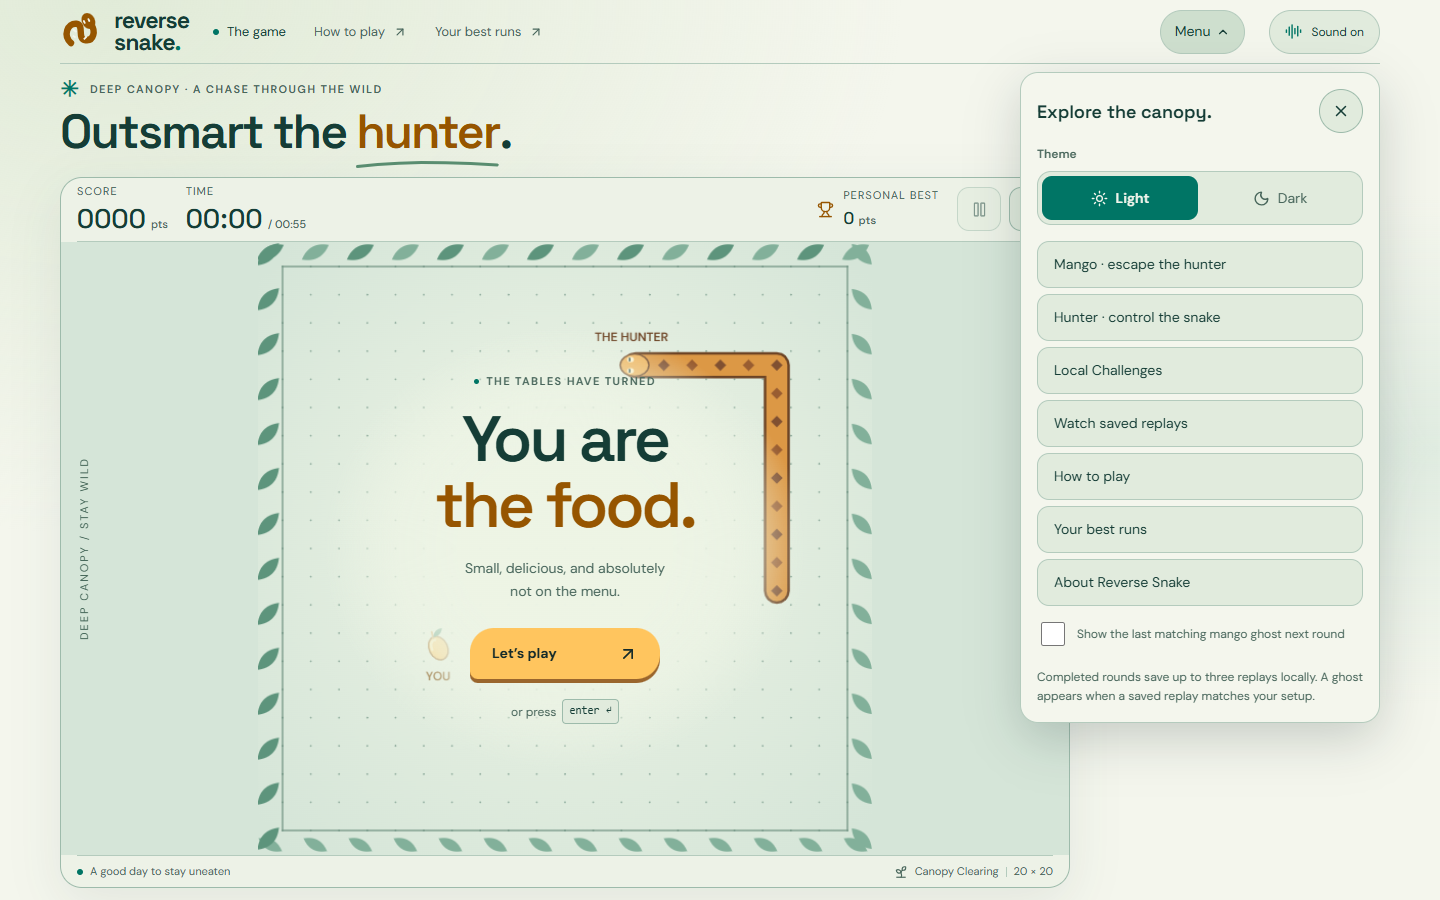
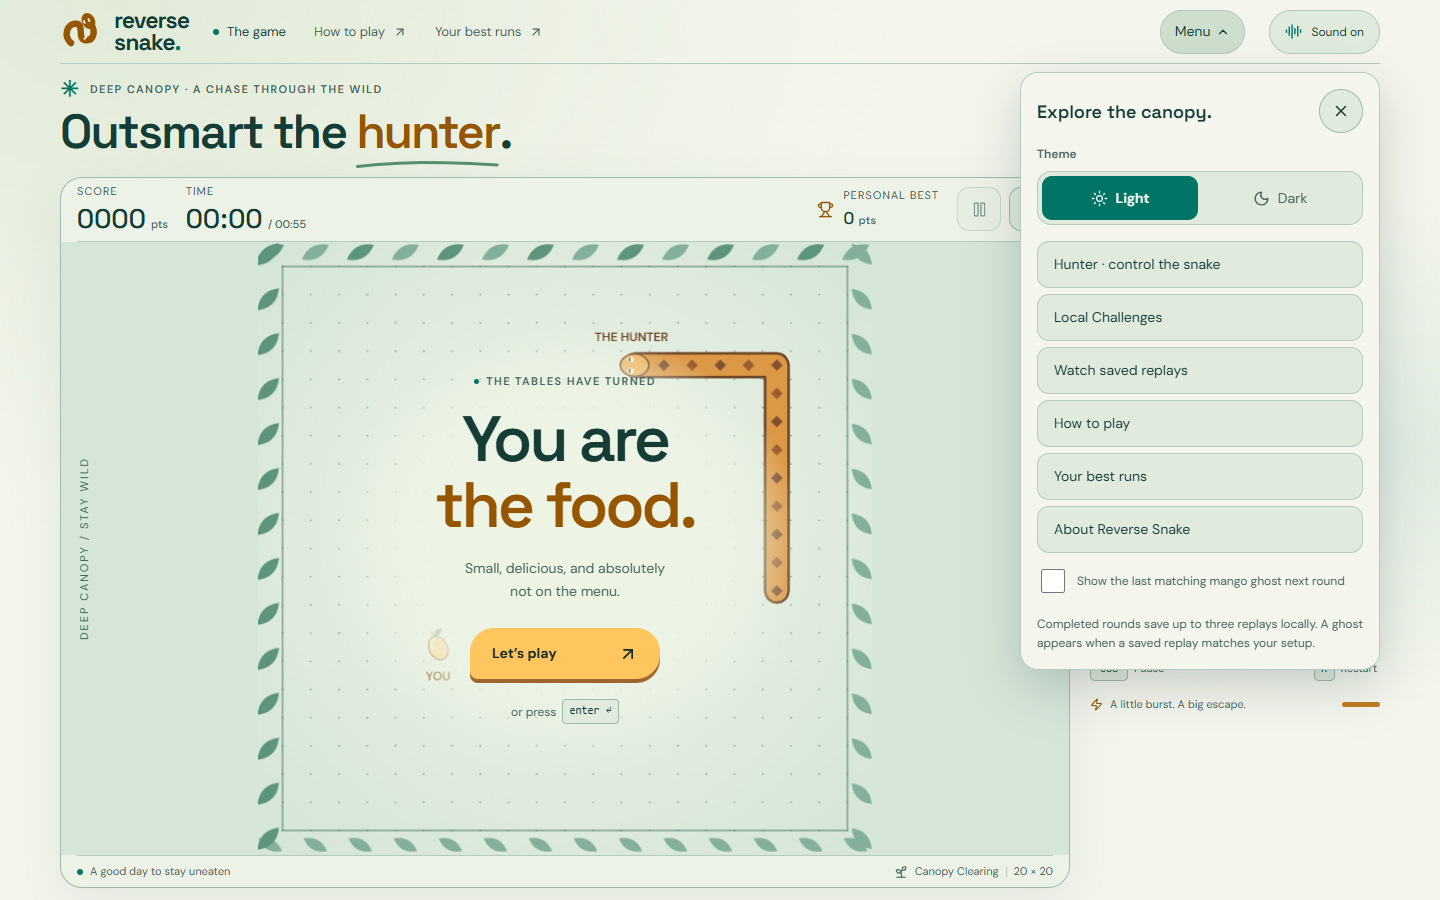
Open menu on click and show the alternate player mode

diff --git a/web/browser-tests/theme.spec.ts b/web/browser-tests/theme.spec.ts
@@ -92,13 +92,24 @@ test("a palette switch redraws a paused board without advancing or resetting it"
   await expect(page.locator(".board-stage")).toHaveAttribute("data-phase", "paused");
 });
 
-test("hover opens and highlights options; click pins, Escape and outside click close", async ({ page }) => {
+test("hover leaves gameplay running; click and keyboard open, Escape and outside click close", async ({ page }) => {
   await page.goto("/");
   const trigger = page.getByRole("button", { name: "Open game menu" });
   await trigger.hover();
+  await expect(menu(page)).toHaveCount(0);
+  await page.getByRole("button", { name: "Let’s play" }).click();
+  await trigger.hover();
+  await expect(menu(page)).toHaveCount(0);
+  await expect(page.locator(".board-stage")).toHaveAttribute("data-phase", "running");
+  await trigger.click();
   await expect(menu(page)).toBeVisible();
+  await expect(page.locator(".board-stage")).toHaveAttribute("data-phase", "paused");
+  await expect(page.getByRole("button", { name: "Close menu" })).toBeFocused();
   await page.keyboard.press("Enter");
-  await expect(page.locator(".board-stage")).toHaveAttribute("data-phase", "ready");
+  await expect(menu(page)).toHaveCount(0);
+  await trigger.press("Enter");
+  await expect(menu(page)).toBeVisible();
+  await expect(page.locator(".board-stage")).toHaveAttribute("data-phase", "paused");
   const light = menu(page).getByRole("button", { name: "Light", exact: true });
   const dark = menu(page).getByRole("button", { name: "Dark", exact: true });
   const background = await dark.evaluate(el => getComputedStyle(el).backgroundColor);
@@ -106,11 +117,7 @@ test("hover opens and highlights options; click pins, Escape and outside click c
   await expect.poll(() => dark.evaluate(el => getComputedStyle(el).backgroundColor)).not.toBe(background);
   await expect(light).toHaveAttribute("aria-pressed", "true");
   await page.mouse.move(5, 200);
-  await expect(menu(page)).toHaveCount(0);
-  await trigger.click();
-  await page.mouse.move(5, 200);
   await expect(menu(page)).toBeVisible();
-  await expect(page.getByRole("button", { name: "Close menu" })).toBeFocused();
   await page.keyboard.press("Escape");
   await expect(menu(page)).toHaveCount(0);
   await expect(trigger).toBeFocused();
@@ -122,6 +129,26 @@ test("hover opens and highlights options; click pins, Escape and outside click c
   await expect(page.locator("dialog.modal")).toBeVisible();
   await page.keyboard.press("Escape");
   await expect(trigger).toBeFocused();
+});
+
+test("the menu offers Hunter from Mango and Mango from Hunter, including during a round", async ({ page }) => {
+  await page.goto("/");
+  await openMenu(page);
+  await expect(menu(page).getByRole("link", { name: "Mango · escape the hunter" })).toHaveCount(0);
+  await expect(menu(page).getByRole("link", { name: "Hunter · control the snake" })).toBeVisible();
+  await menu(page).getByRole("link", { name: "Hunter · control the snake" }).click();
+  await expect(page).toHaveURL(/\/hunter$/);
+  await page.getByRole("button", { name: "Start round" }).click();
+  await openMenu(page);
+  await expect(page.locator(".board-stage")).toHaveAttribute("data-phase", "paused");
+  await expect(menu(page).getByRole("link", { name: "Hunter · control the snake" })).toHaveCount(0);
+  await expect(menu(page).getByRole("link", { name: "Mango · escape the hunter" })).toBeVisible();
+  await menu(page).getByRole("link", { name: "Mango · escape the hunter" }).click();
+  await page.getByRole("button", { name: "Let’s play" }).click();
+  await openMenu(page);
+  await expect(page.locator(".board-stage")).toHaveAttribute("data-phase", "paused");
+  await expect(menu(page).getByRole("link", { name: "Mango · escape the hunter" })).toHaveCount(0);
+  await expect(menu(page).getByRole("link", { name: "Hunter · control the snake" })).toBeVisible();
 });
 
 for (const unavailable of [false, true]) {

diff --git a/web/src/components/game-menu.tsx b/web/src/components/game-menu.tsx
@@ -5,38 +5,18 @@ import Link from "next/link";
 import { ChevronDown, Moon, Sun, X } from "lucide-react";
 import { setTheme, useTheme } from "@/lib/theme";
 
-export function GameMenu({ onOpen, children }: { onOpen?: () => void; children?: ReactNode }) {
+export function GameMenu({ currentMode, onOpen, children }: { currentMode?: "mango" | "hunter"; onOpen?: () => void; children?: ReactNode }) {
   const [open, setOpen] = useState(false);
-  const [focusMenu, setFocusMenu] = useState(false);
   const [notice, setNotice] = useState("");
   const theme = useTheme();
   const id = useId();
   const wrapper = useRef<HTMLDivElement>(null);
   const trigger = useRef<HTMLButtonElement>(null);
   const closeButton = useRef<HTMLButtonElement>(null);
-  const pinned = useRef(false);
-  const opened = useRef(false);
-  const leaveTimer = useRef<ReturnType<typeof setTimeout> | null>(null);
-  const cancelLeave = useCallback(() => {
-    if (leaveTimer.current) clearTimeout(leaveTimer.current);
-    leaveTimer.current = null;
-  }, []);
   const close = useCallback((restoreFocus = true) => {
-    cancelLeave();
-    opened.current = false;
-    pinned.current = false;
     setOpen(false);
-    setFocusMenu(false);
     if (restoreFocus) trigger.current?.focus({ preventScroll: true });
-  }, [cancelLeave]);
-  const show = () => {
-    cancelLeave();
-    if (!opened.current) {
-      opened.current = true;
-      setOpen(true);
-      onOpen?.();
-    }
-  };
+  }, []);
 
   useEffect(() => {
     if (!open) return;
@@ -62,28 +42,17 @@ export function GameMenu({ onOpen, children }: { onOpen?: () => void; children?:
       document.removeEventListener("focusin", focusOut);
     };
   }, [open, close]);
-  useEffect(() => cancelLeave, [cancelLeave]);
   useEffect(() => {
-    if (open && focusMenu) closeButton.current?.focus({ preventScroll: true });
-  }, [open, focusMenu]);
+    if (open) closeButton.current?.focus({ preventScroll: true });
+  }, [open]);
 
-  return <div className="menu-wrapper" ref={wrapper}
-    onPointerEnter={event => {
-      if (event.pointerType === "mouse" && window.matchMedia("(hover: hover) and (pointer: fine)").matches) show();
-    }}
-    onPointerLeave={() => {
-      cancelLeave();
-      if (!pinned.current) leaveTimer.current = setTimeout(() => {
-        if (!wrapper.current?.contains(document.activeElement)) close(false);
-      }, 180);
-    }}>
+  return <div className="menu-wrapper" ref={wrapper}>
     <button className="menu-button" ref={trigger} aria-label="Open game menu" aria-expanded={open} aria-controls={id} aria-haspopup="dialog"
       onClick={() => {
-        if (pinned.current && opened.current) close();
+        if (open) close();
         else {
-          pinned.current = true;
-          setFocusMenu(true);
-          show();
+          setOpen(true);
+          onOpen?.();
         }
       }}>Menu <ChevronDown size={14} className={open ? "menu-chevron expanded" : "menu-chevron"} /></button>
     {open && <div className="menu-panel" id={id} role="dialog" aria-label="Game menu" onClick={event => {
@@ -97,8 +66,8 @@ export function GameMenu({ onOpen, children }: { onOpen?: () => void; children?:
       </div></fieldset>
       {notice && <p className="theme-notice" role="status">{notice}</p>}
       <div className="game-menu">
-        <Link href="/" onClick={() => close(false)}>Mango · escape the hunter</Link>
-        <Link href="/hunter" onClick={() => close(false)}>Hunter · control the snake</Link>
+        {currentMode !== "mango" && <Link href="/" onClick={() => close(false)}>Mango · escape the hunter</Link>}
+        {currentMode !== "hunter" && <Link href="/hunter" onClick={() => close(false)}>Hunter · control the snake</Link>}
         <Link href="/challenge" onClick={() => close(false)}>Local Challenges</Link>
         <Link href="/replays" onClick={() => close(false)}>Watch saved replays</Link>
         {children}

diff --git a/web/src/components/reverse-snake.tsx b/web/src/components/reverse-snake.tsx
@@ -109,7 +109,7 @@ export default function ReverseSnake() {
         <button onClick={() => openDialog("guide")}>How to play <ArrowUpRight size={14} /></button>
         <button onClick={() => openDialog("scores")}>Your best runs <ArrowUpRight size={14} /></button>
       </nav>
-      <GameMenu onOpen={pause}>
+      <GameMenu currentMode="mango" onOpen={pause}>
         <button data-menu-close onClick={() => openDialog("guide")}>How to play</button>
         <button data-menu-close onClick={() => openDialog("scores")}>Your best runs</button>
         <button data-menu-close onClick={() => openDialog("about")}>About Reverse Snake</button>

diff --git a/web/src/components/new-game.tsx b/web/src/components/new-game.tsx
@@ -297,7 +297,7 @@ export default function NewGame({ mode }: { mode: "hunter" | "challenge" }) {
           </Link>
           <Link href="/replays">Replays</Link>
         </nav>
-        <GameMenu onOpen={pause}><button data-menu-close onClick={() => { pause(); setHelp(true); }}>How to play</button></GameMenu>
+        <GameMenu currentMode={mode === "hunter" ? "hunter" : undefined} onOpen={pause}><button data-menu-close onClick={() => { pause(); setHelp(true); }}>How to play</button></GameMenu>
       </header>
       <main className="site-main">
         <section className="hero">

diff --git a/web/docs/CURRENT_STATE.md b/web/docs/CURRENT_STATE.md
@@ -6,11 +6,11 @@ The browser product in web/ remains authoritative. Levels and Survival retain fi
 
 Version 1.1.0 adds /hunter (player snake), /challenge (three fixed local survival courses), /replays (completed-run playback), optional matching mango ghosts, a menu that remains accessible on phones, and a board that sizes to the remaining viewport. The main layout has passed twelve viewport checks, including 320 × 568 and 844 × 390. New modes have separate score storage; the existing reverse-snake:v1 key is unchanged. See [mode contracts](NEW_MODES.md).
 
-The current presentation defaults to a light canopy palette; the original dark palette is selectable through Menu → Theme. Page surfaces, dialogs, SVG maps and Canvas follow the selection across all four routes. The separate reverse-snake:theme:v1 preference survives reloads and synchronizes between tabs, with light as the fallback for invalid/blocked storage. Menu opens on desktop mouse hover and toggles on touch or click, provides hover/focus feedback, and supports Escape/outside/close actions. Opening it pauses gameplay or replay, while changing theme preserves the paused characters, time, scores and replay cursor. Both palettes and the open menu fit the tested desktop, phone and short-landscape screens. See [visual direction](VISUAL_DIRECTION.md).
+The current presentation defaults to a light canopy palette; the original dark palette is selectable through Menu → Theme. Page surfaces, dialogs, SVG maps and Canvas follow the selection across all four routes. The separate reverse-snake:theme:v1 preference survives reloads and synchronizes between tabs, with light as the fallback for invalid/blocked storage. Menu toggles on click/tap or keyboard activation, provides hover/focus feedback, and supports Escape/outside/close actions. Hovering over Menu leaves gameplay running. Mango's menu offers Hunter and Hunter's menu offers Mango, omitting their own mode link. Opening Menu pauses gameplay or replay, while changing theme preserves the paused characters, time, scores and replay cursor. Both palettes and the open menu fit the tested desktop, phone and short-landscape screens. See [visual direction](VISUAL_DIRECTION.md).
 
 The maintained stack is Next.js 16.4.5, React 19.3.1, TypeScript, Node 24 and Canvas. Phaser, online accounts, cloud scores, custom arena editor, Android package and ML are not implemented. Their conditional deferral is explained in [technical decisions](TECHNICAL_DECISIONS.md).
 
-Current local verification: 44 rules tests, ESLint, production build and TypeScript pass. The browser suite has 43 passes and one explicit headless tab-visibility skip. It covers both palettes and their storage/menu behavior, all-route viewport fit, new modes, replay/ghost, native fullscreen, dialog focus, navigation, offline loaded gameplay and the twelve main-game viewport sizes. The dependency lockfile is unchanged from the previous clean install and zero-findings audit. The startup first-frame reset and dialog focus-return regressions are covered. [Performance evidence](PERFORMANCE.md) contains measurements of the preceding browser release.
+Current local verification: ESLint, production build and TypeScript pass. The browser suite has 44 passes and one explicit headless tab-visibility skip. It covers click/keyboard/touch menu activation, hovering during a live round, switching between Mango and Hunter without listing the current mode, both palettes and their storage/menu behavior, all-route viewport fit, new modes, replay/ghost, native fullscreen, dialog focus, navigation, offline loaded gameplay and the twelve main-game viewport sizes. The rules and dependency lockfile are unchanged from the prior 44 passing rules tests, clean install and zero-findings audit. The startup first-frame reset and dialog focus-return regressions are covered. [Performance evidence](PERFORMANCE.md) contains measurements of the preceding browser release.
 
 The theme update is delivered to GitHub main at source/test revision 36668b39f7d41b46fa12aa8d50aade06d24736c2, with this documentation update following it. [The Linux CI run](https://github.com/A4B4RG/Reverse-Snake-/actions/runs/43536871523) passes clean installation, audit, 44 rules tests, lint, build, types and 43 browser tests, with the existing explicit headless visibility skip. [Release evidence](RELEASE.md) preserves the earlier release checkpoints and the hosted verification waiver.
 

diff --git a/web/README.md b/web/README.md
@@ -4,7 +4,7 @@ A playable React / Next.js / Tailwind CSS adaptation of the Python prototype in 
 
 Version 1.1.0 also includes **Hunter** (control the snake and collect mangoes), three fixed **local Challenges**, completed-run **replays**, and optional matching mango ghosts. Open **Menu** to reach these modes, help, scores, and settings. The core game fits a single viewport on the tested desktop, phone, and landscape sizes. See [current state](docs/CURRENT_STATE.md), [mode contracts](docs/NEW_MODES.md), [limitations](docs/KNOWN_LIMITATIONS.md), and [release evidence](docs/RELEASE.md). Live site: https://reverse-snake-chi.vercel.app.
 
-**Light** is the default theme: pale canopy surfaces with deep teal text. **Menu → Theme → Dark** restores the original dark teal palette. The selection applies to the page, menus, maps and Canvas in all modes, persists locally, and synchronizes between tabs. Hover over Menu with a mouse; click to keep it open or tap to toggle on touchscreens. Escape, the close button, or clicking outside closes it. Opening Menu pauses gameplay and replay; resume explicitly when ready. If theme storage is blocked, switching still works for the current visit.
+**Light** is the default theme: pale canopy surfaces with deep teal text. **Menu → Theme → Dark** restores the original dark teal palette. The selection applies to the page, menus, maps and Canvas in all modes, persists locally, and synchronizes between tabs. Click or tap Menu to toggle it; keyboard activation also works. Hover highlights options without opening Menu or pausing the round. Mango's menu offers Hunter, and Hunter's menu offers Mango, omitting the current mode from those two links. Escape, the close button, or clicking outside closes it. Opening Menu pauses gameplay and replay; resume explicitly when ready. If theme storage is blocked, switching still works for the current visit.
 
 ## Run locally
 
@@ -71,11 +71,11 @@ Hunter turns with WASD/arrows or touch directions and moves automatically. It ha
 - `src/lib/storage.ts`: defensive, versioned local saves.
 - `src/lib/input.ts`: normalized keys and independent keyboard/pointer ownership.
 - `src/lib/render-game.ts`: jungle canvas art and motion-aware close-call effects.
-- `src/lib/theme.ts`, `src/components/game-menu.tsx`: persistent light/dark palettes and the shared hover/touch menu.
+- `src/lib/theme.ts`, `src/components/game-menu.tsx`: persistent light/dark palettes and the shared click/tap menu.
 - `src/lib/audio.ts`: synthesized sound effects; audio starts only after user interaction.
 - `tests/game.test.ts`: regression checks for movement, collision, AI, hunger, pause and saves.
 - `tests/boosts.test.ts`, `tests/input.test.ts`, `tests/compatibility.test.ts`: boost timing, ownership and compatibility regressions.
 - `browser-tests/game.spec.ts`: real input, close-call chases, result handling, reloads, contrast, reduced motion and responsive checks.
-- `browser-tests/theme.spec.ts`: default/persistent themes, storage fallback, tab synchronization, paused character positions, hover/touch/focus, contrast and all-route viewport checks.
+- `browser-tests/theme.spec.ts`: default/persistent themes, storage fallback, tab synchronization, paused character positions, click/touch/focus, alternate mode links, contrast and all-route viewport checks.
 
 All graphics are drawn in project-owned canvas/SVG/CSS; fonts are bundled locally. See [Step 2 add-ons](docs/STEP_2_ADDONS.md) for the approved art direction and changes, and [verification](docs/VERIFICATION.md) for current checks. The phased Phaser migration remains a separate future milestone.

diff --git a/web/docs/VISUAL_DIRECTION.md b/web/docs/VISUAL_DIRECTION.md
@@ -2,7 +2,7 @@
 
 The canopy theme has two palettes. Light is the default: pale ivory and mint surfaces, deep teal text, darker amber accents and green foliage. Dark preserves the original dark teal jungle with golden accents. Both retain the golden mango, amber snake with diamond markings, mossy stones and turquoise/teal close-call leaves. Light artwork adds dark outlines around the fruit and snake head for separation from the pale ground. Character silhouettes remain different from hazards; foliage stays outside playable cells.
 
-Menu → Theme exposes labeled Light/Dark selections. The chosen palette applies to the entire page, dialogs, SVG maps and Canvas across Mango, Hunter, Challenges and Replays. A separate browser-local preference restores before initial paint and synchronizes between tabs; unsupported or unavailable storage defaults to light. Theme switching redraws a paused board without advancing its rules or resetting characters. The menu opens on mouse hover, supports click/tap and keyboard use, highlights hovered/focused options, and scrolls internally on short screens. Opening it pauses the chase or replay until explicitly resumed.
+Menu → Theme exposes labeled Light/Dark selections. The chosen palette applies to the entire page, dialogs, SVG maps and Canvas across Mango, Hunter, Challenges and Replays. A separate browser-local preference restores before initial paint and synchronizes between tabs; unsupported or unavailable storage defaults to light. Theme switching redraws a paused board without advancing its rules or resetting characters. Menu toggles on click/tap or keyboard activation, highlights hovered/focused options, and scrolls internally on short screens. Hovering over the trigger leaves gameplay running. Mango offers the Hunter mode link; Hunter offers the Mango mode link. Opening Menu pauses the chase or replay until explicitly resumed.
 
 Hunter reuses the same board artwork and amber snake; the mango is a collectible. Local Challenge retains the mango chase. Ghosts are faint turquoise outlines drawn before live characters, so they cannot obscure collision targets. Replay uses the same renderer as the recorded mode.
 

diff --git a/web/docs/RELEASE.md b/web/docs/RELEASE.md
@@ -1,5 +1,9 @@
 # Release evidence
 
+## Click menu and alternate mode links — 14 November 2026
+
+Menu now toggles through click/tap or keyboard activation; hovering leaves gameplay running. The Mango page offers the Hunter link and the Hunter page offers the Mango link, omitting their own mode from those two options. Light/dark settings and the other menu actions remain available. Local lint, production build, TypeScript and the full browser suite pass: 44 browser passes and one existing headless visibility skip. This update builds on main e6d7fdd813f476fa3723e5d4315c93c34ba4d8b6. Main delivery remains authorized and hosted verification remains NOT VERIFIED under the existing user waiver.
+
 ## Theme and hover-menu update — 14 November 2026
 
 The current source adds default light and saved original dark palettes, a shared Theme menu across all modes/replay, mouse hover opening and touch/click toggling. The update is based on main cb933bf005fc0b8e4e8c4d53f10fd307e260ab11. Local verification passes 44 rules tests, lint, production build, TypeScript and 43 browser tests, with one existing headless tab-visibility skip. Updated visual captures and current product/verification reports accompany the source.

diff --git a/web/docs/VERIFICATION.md b/web/docs/VERIFICATION.md
@@ -1,5 +1,11 @@
 # Verification
 
+## Click menu and mode navigation — 14 November 2026
+
+ESLint, production build and TypeScript pass. The full local Chrome browser suite passes **44 tests**, with the existing explicit headless tab-visibility skip. The menu test verifies that hovering leaves a live chase running, click/keyboard activation opens the menu and pauses gameplay, touch toggles it, and Escape/outside/close actions restore the expected focus. Route navigation verifies that Mango offers Hunter and Hunter offers Mango, without their own mode link, including during active rounds. Existing theme, replay, ghost, fullscreen, input and viewport checks pass. Updated menu screenshots show the current options. Rules and dependencies are unchanged.
+
+Hosted verification remains NOT VERIFIED under the existing waiver. The release evidence below preserves the previous theme implementation's CI result.
+
 ## Light/dark themes and hover menu — 14 November 2026
 
 Current local checks pass: **44 rules tests**, ESLint, production build and TypeScript. The full Chrome production-browser suite passes **43 tests**, with the existing explicit headless tab-visibility skip. Dependencies are unchanged.
